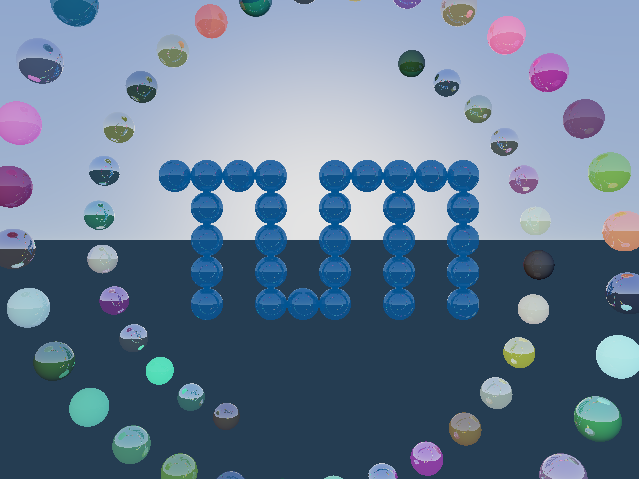
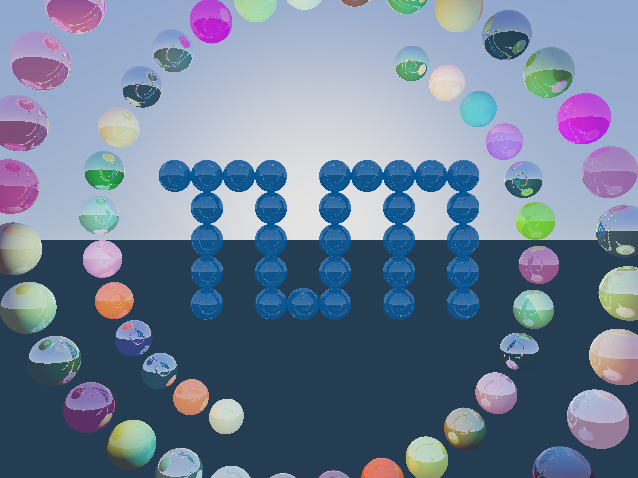
update screenshot

diff --git a/main.cpp b/main.cpp
@@ -201,14 +201,13 @@ int main(int argc, char *args[])
 
     std::vector<Light> lights = {};
 
-    lights.push_back(Light(point3(0, 10, 10), RGB(.3, .3, 0)));
-    lights.push_back(Light(point3(0, -10, 10), RGB(0, .3, .3)));
+    lights.push_back(Light(point3(30, 10, 0), RGB(.9, .9, 0)));
+    lights.push_back(Light(point3(30, -10, 0), RGB(0, .9, .9)));
 
     // scene definition
 
     // tum blue
-    Material tum_mat = Material(RGB(0, 20. / 255., 50. / 255.), .2, 1, .05, 1, 10);
-    Material floor_mat = Material(RGB(1, 1, 1), .2, .2, .2, .2, 10);
+    Material tum_mat = Material(RGB(0, 20. / 255., 50. / 255.), .2, 1, .05, 1, 50);
     double tum_distance = 40;
 
     // tum logo
@@ -263,7 +262,7 @@ int main(int argc, char *args[])
     {
         for (int j = 0; j < 30; j++)
         {
-            scene.push_back(std::make_unique<Sphere>(point3(25 + j * x_step, radius * std::sin(winding * j + i * M_PI), radius * std::cos(winding * j + i * M_PI)), 1, random_material(distribution, gen)));
+            scene.push_back(std::make_unique<Sphere>(point3(25 + j * x_step, radius * std::sin(winding * j + i * M_PI), radius * std::cos(winding * j + i * M_PI)), 1.3, random_material(distribution, gen)));
         }
     }
 
